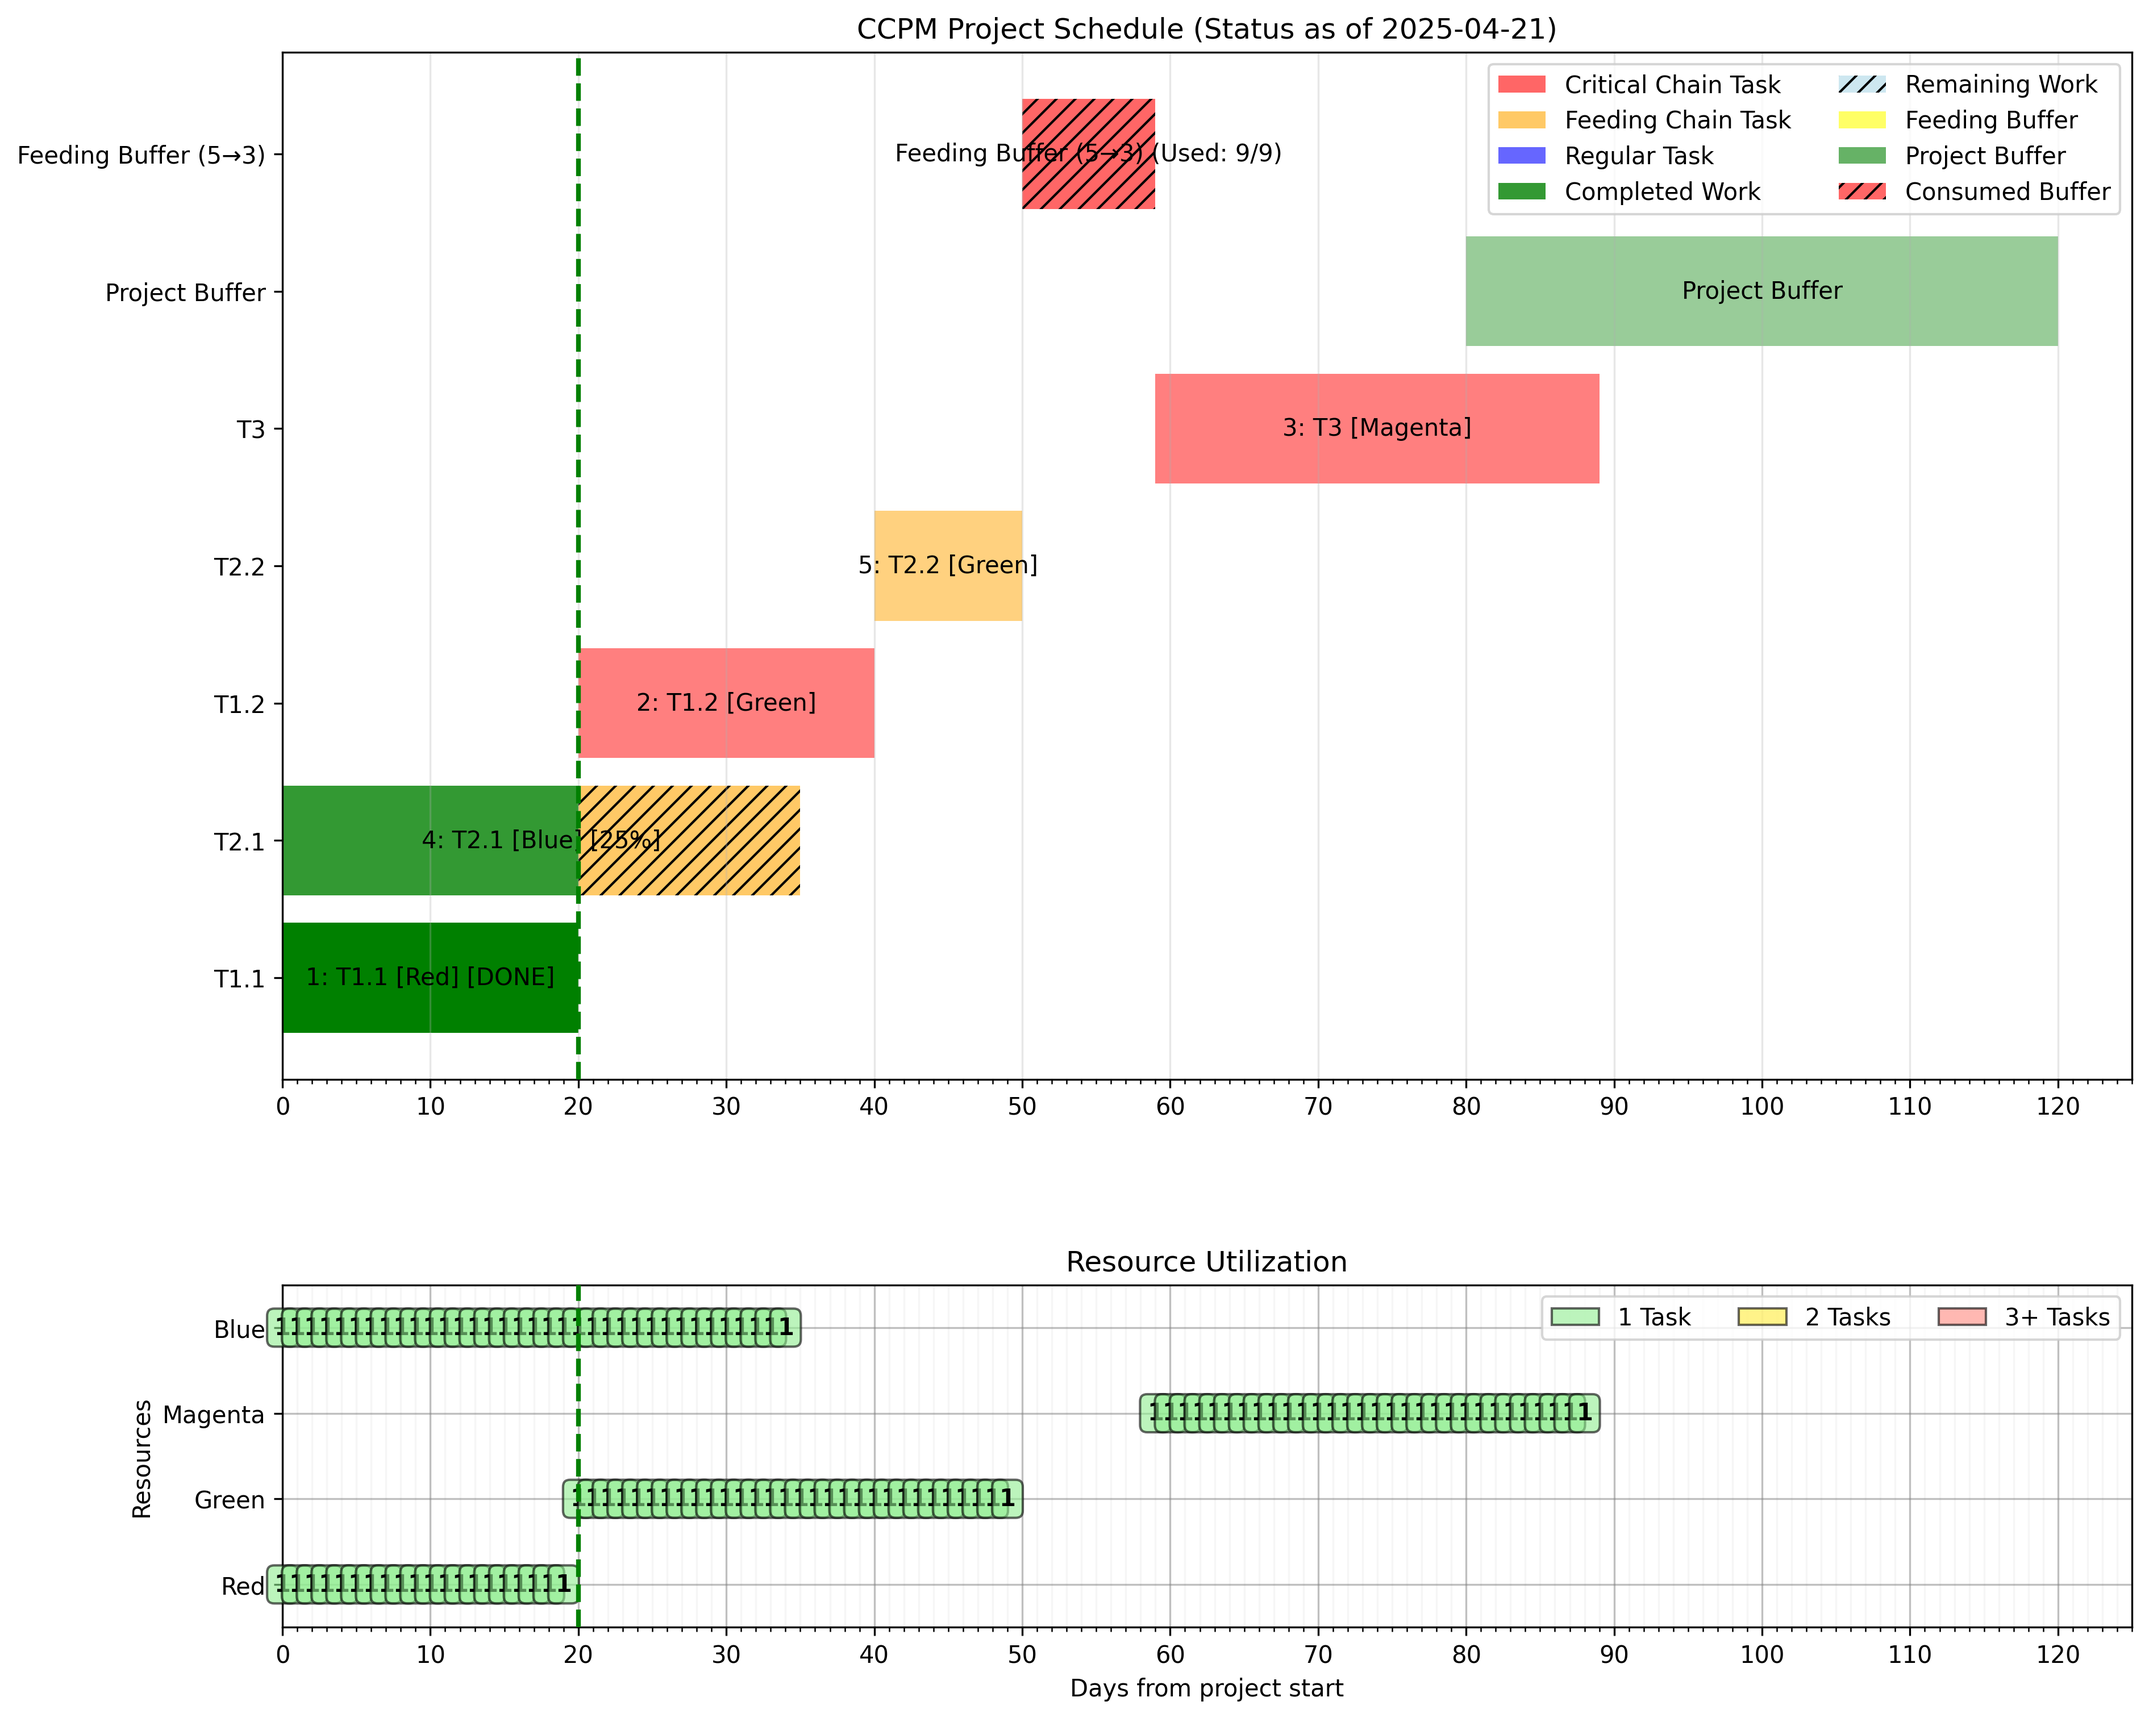
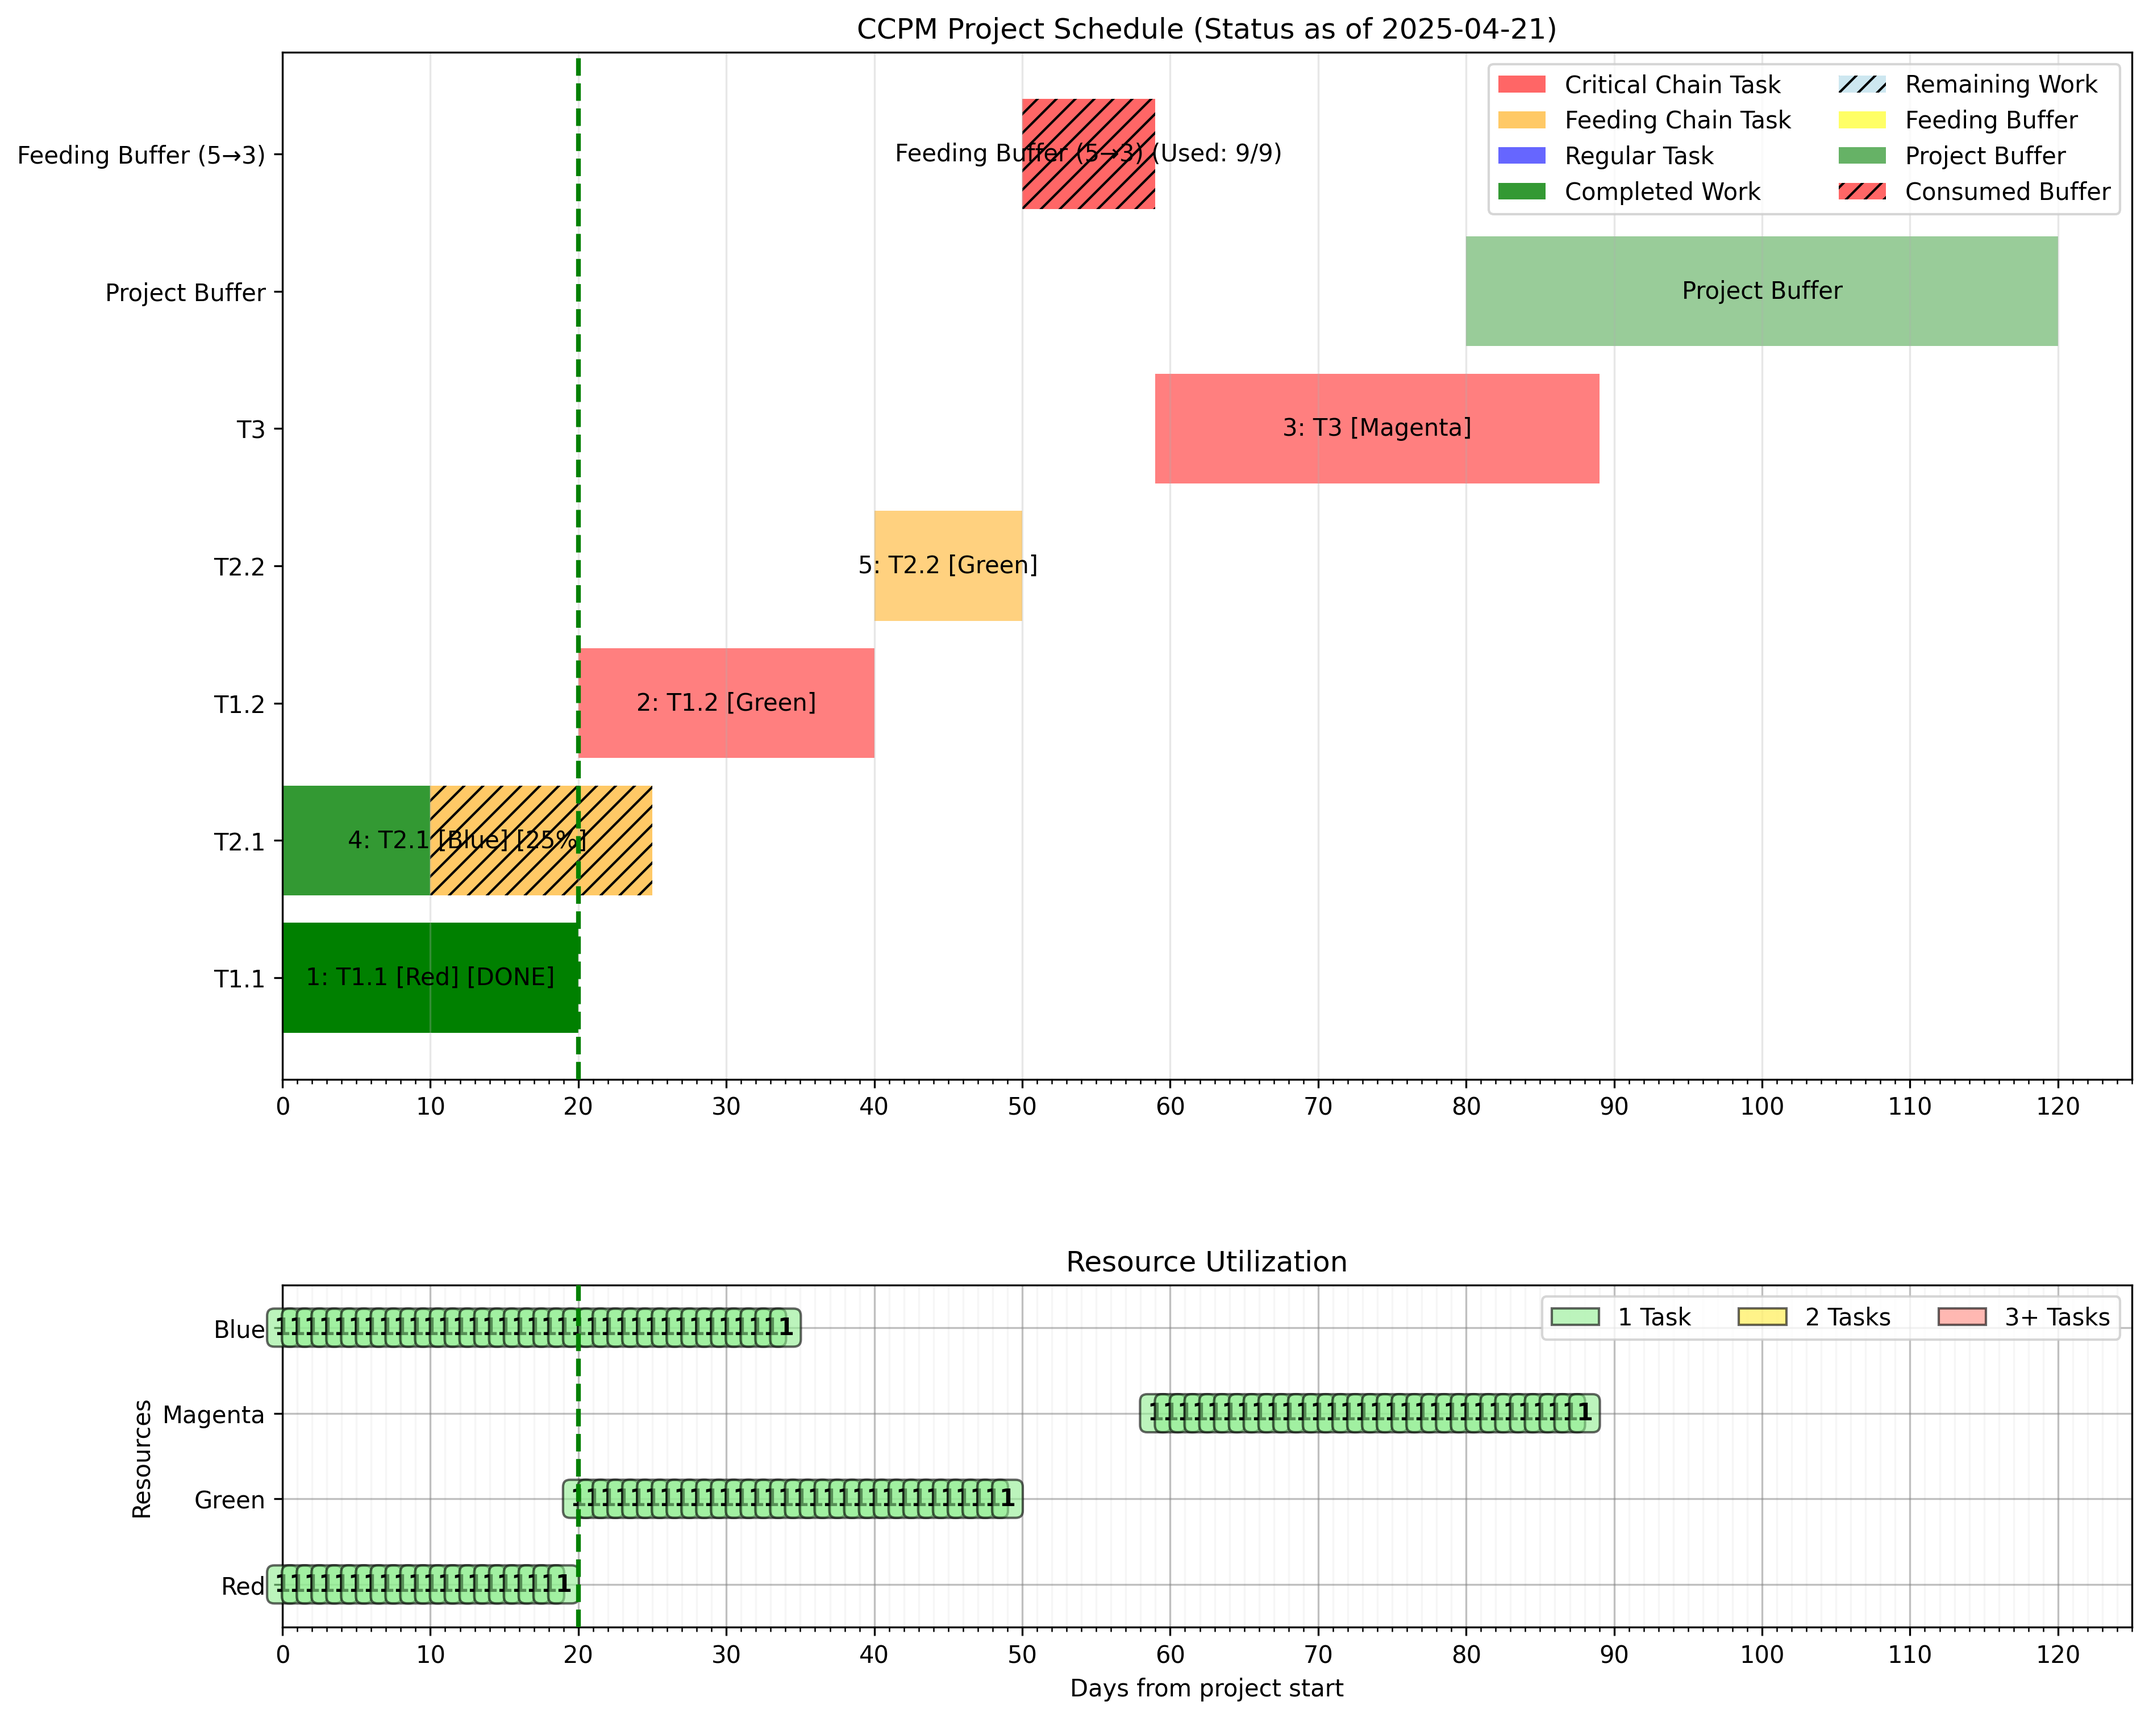
Task 4 drawing after status update now working

Changed region(s): [[0.1872, 0.4352, 0.3744, 0.5284]]

diff --git a/graphbased-ccpm.py b/graphbased-ccpm.py
@@ -1836,62 +1836,81 @@ class CCPMScheduler:
 
         # Plot each task
         for i, task in enumerate(sorted_tasks):
-            # COMPLETELY REWRITTEN SECTION FOR TASK VISUALIZATION
-
-            # Determine start position for all task types
-            if hasattr(task, "actual_start_date"):
-                start_day = (task.actual_start_date - self.start_date).days
-            elif hasattr(task, "new_start_date"):
-                start_day = (task.new_start_date - self.start_date).days
-            else:
-                start_day = (task.start_date - self.start_date).days
-
-            # Special handling for completed tasks - KEY FIX
+            # Determine start and end days for the task
             if hasattr(task, "status") and task.status == "completed":
-                # For completed tasks, we want to show a completed green bar from start to actual end
-                # If actual_end_date isn't set, use the status date
-                if hasattr(task, "actual_end_date") and task.actual_end_date:
+                # Completed task - use actual start and end
+                start_day = (task.actual_start_date - self.start_date).days
+                if hasattr(task, "actual_end_date"):
                     end_day = (task.actual_end_date - self.start_date).days
-                elif status_date:
+                else:
                     end_day = (status_date - self.start_date).days
-                else:
-                    # Fallback: use planned end date
-                    end_day = start_day + task.duration
 
-                # Calculate duration between start and end
                 duration = end_day - start_day
+                duration = max(1, duration)  # Ensure at least 1 day
 
-                # Ensure minimum 1 day duration for visibility
-                duration = max(1, duration)
-
-                print(f"DEBUG - Completed Task {task.id}: {task.name}")
-                print(
-                    f"  Start day: {start_day}, End day: {end_day}, Duration: {duration}"
-                )
-
-                # Draw the full green bar
+                # Use solid color for completed tasks
                 ax_gantt.barh(i, duration, left=start_day, color="green", alpha=1.0)
-
-            # In-progress tasks
             elif hasattr(task, "status") and task.status == "in_progress":
-                # For in-progress tasks, split into completed and remaining portions
+                # FIXED: For in-progress tasks, use the task's last update date, not the current status date
+                start_day = (task.actual_start_date - self.start_date).days
 
-                # Calculate completed portion
-                if status_date:
-                    completed_days = (status_date - task.actual_start_date).days
-                    completed_days = max(0, completed_days)  # Ensure non-negative
+                # IMPORTANT FIX: Get the last update date for this task
+                last_update_date = None
+                if hasattr(task, "progress_history") and task.progress_history:
+                    # Get the most recent update date from the task's history
+                    last_update_date = task.progress_history[-1]["date"]
                 else:
-                    completed_days = 0
+                    # If no history, use the actual start date
+                    last_update_date = task.actual_start_date
 
-                # Draw completed portion first (if any)
-                if completed_days > 0:
+                # Calculate completed portion (from actual_start to LAST UPDATE date, not status_date)
+                completed_duration = (last_update_date - task.actual_start_date).days
+                # Ensure completed_duration is not negative
+                completed_duration = max(0, completed_duration)
+
+                # Show completed portion
+                if completed_duration > 0:
                     ax_gantt.barh(
-                        i, completed_days, left=start_day, color="green", alpha=0.8
+                        i, completed_duration, left=start_day, color="green", alpha=0.8
                     )
 
-                # Then draw remaining portion
-                remaining_days = task.remaining_duration
-                remaining_start = start_day + completed_days
+                # Show remaining portion
+                remaining_duration = task.remaining_duration
+                start_remaining = (
+                    start_day + completed_duration
+                )  # This is last_update_date in days
+
+                ax_gantt.barh(
+                    i,
+                    remaining_duration,
+                    left=start_remaining,
+                    color=(
+                        "red"
+                        if task.id in self.critical_chain
+                        else "orange"
+                        if any(
+                            task.id in chain_info["chain"]
+                            for chain_info in self.feeding_chains
+                        )
+                        else "blue"
+                    ),
+                    alpha=0.6,
+                    hatch="///",
+                )
+
+                # For label positioning, use total duration
+                duration = completed_duration + remaining_duration
+            elif hasattr(task, "new_start_date"):
+                # Task with updated schedule but not started
+                start_day = (task.new_start_date - self.start_date).days
+                duration = (
+                    task.remaining_duration
+                    if hasattr(task, "remaining_duration")
+                    else task.duration
+                )
+                # Use lighter color for scheduled but not started tasks
+                alpha = 0.5
+                hatch = None
 
                 # Determine color based on task type
                 if task.id in self.critical_chain:
@@ -1904,36 +1923,15 @@ class CCPMScheduler:
                     color = "blue"
 
                 ax_gantt.barh(
-                    i,
-                    remaining_days,
-                    left=remaining_start,
-                    color=color,
-                    alpha=0.6,
-                    hatch="///",
+                    i, duration, left=start_day, color=color, alpha=alpha, hatch=hatch
                 )
-
-                # Total duration for label positioning
-                duration = completed_days + remaining_days
-
-            # Tasks with updated schedule but not started
-            elif hasattr(task, "new_start_date"):
-                duration = getattr(task, "remaining_duration", task.duration)
-
-                # Determine color based on task type
-                if task.id in self.critical_chain:
-                    color = "red"
-                elif any(
-                    task.id in chain_info["chain"] for chain_info in self.feeding_chains
-                ):
-                    color = "orange"
-                else:
-                    color = "blue"
-
-                ax_gantt.barh(i, duration, left=start_day, color=color, alpha=0.5)
-
-            # Original planned schedule (no updates)
             else:
+                # Original planned schedule
+                start_day = (task.start_date - self.start_date).days
                 duration = task.duration
+                # Use transparent for original plan
+                alpha = 0.5
+                hatch = None
 
                 # Determine color based on task type
                 if task.id in self.critical_chain:
@@ -1945,7 +1943,9 @@ class CCPMScheduler:
                 else:
                     color = "blue"
 
-                ax_gantt.barh(i, duration, left=start_day, color=color, alpha=0.5)
+                ax_gantt.barh(
+                    i, duration, left=start_day, color=color, alpha=alpha, hatch=hatch
+                )
 
             # Format the resource list
             if isinstance(task.resources, str):
